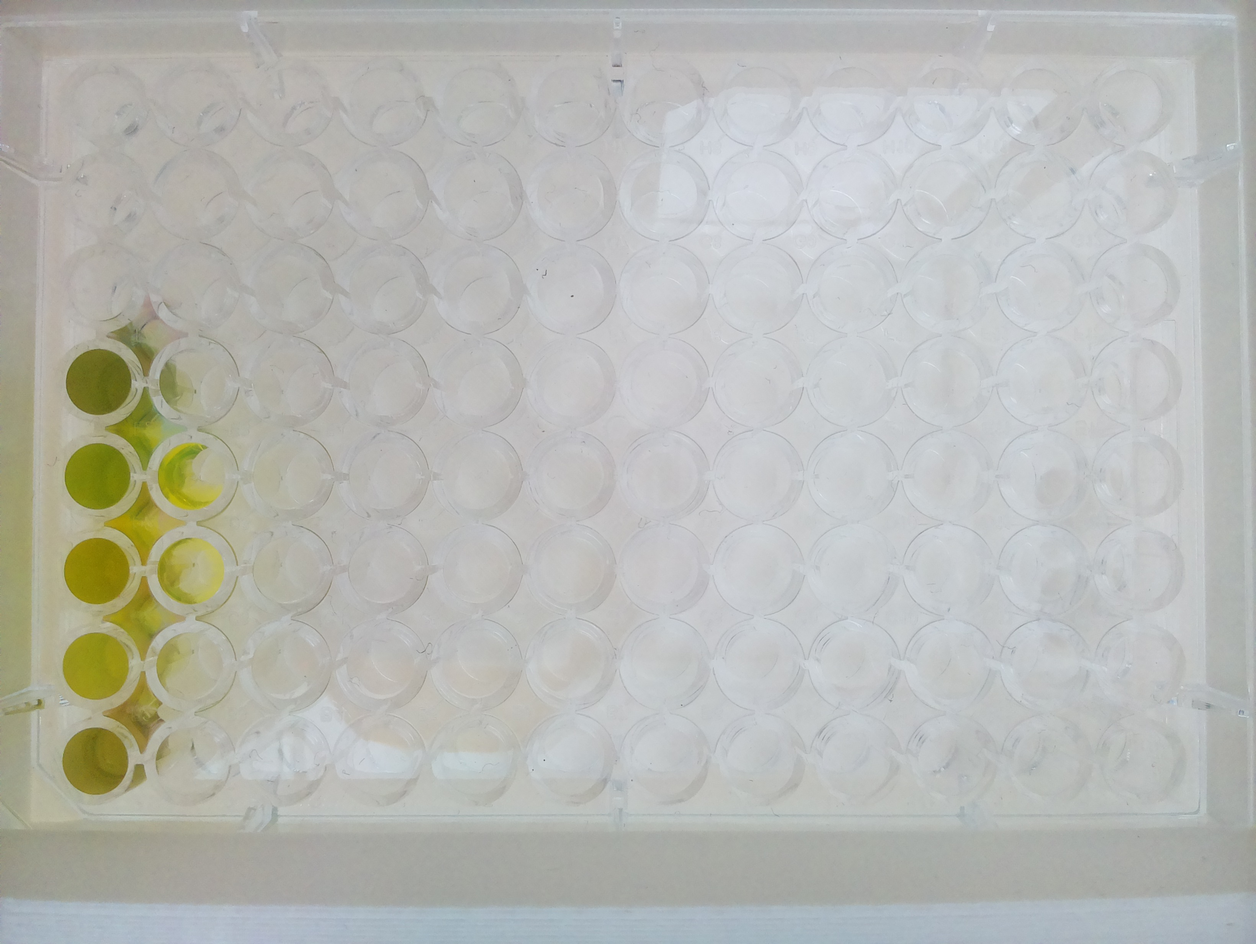
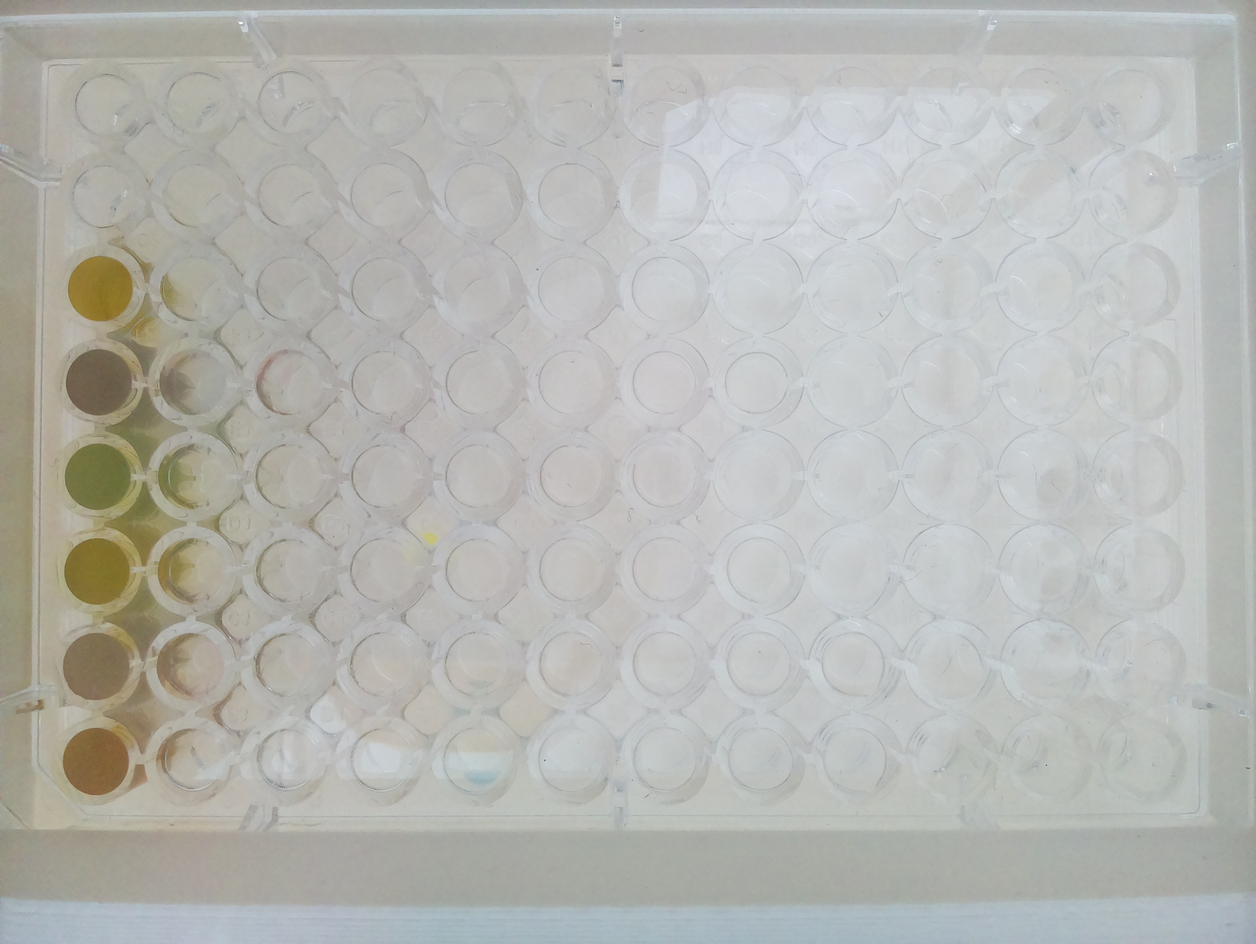
03_07

diff --git a/mara_demo/workflow/demo_main.py b/mara_demo/workflow/demo_main.py
@@ -1,32 +1,36 @@
 '''
-Vattanary Tevy - created 03/02/2025 (Modified for Interactive Workflow)
-Orchestrates workflow with manual intervention points and color-grouped output
-Fixed to correctly interpret LHS samples
+Vattanary Tevy - Modified for Interactive Workflow
+Simplified version without Bayesian Optimization
 '''
-
 from camera import capture_photo
-from image_analysis import analyze_image, plot_grid, draw_contours, compute_rgb_grid
-from lhs import generate_lhs_samples, store_and_print_cmyk
-from bayesian import build_bo_model, suggest_next_sample, RGB_to_CMYK
+from image_analysis import compute_rgb_grid
+from lhs import generate_lhs_samples
 import config
 import asyncio
-import torch
 import numpy as np
-import json
 import time
-
-from botorch.models import SingleTaskGP
-from gpytorch.mlls import ExactMarginalLogLikelihood
-from gpytorch.kernels import ScaleKernel, RBFKernel
-
 # Use target color from config if available, otherwise use this default
 TARGET_RGB = [224, 163, 46]
 MAX_WELL_VOLUME = 270  # Total volume constraint in microliters
-
 def wait_for_user_input(message="Press Enter to continue..."):
     """Pause execution until user presses Enter."""
     input(message)
-
+def RGB_to_CMYK(rgb):
+    """Convert RGB in [0,1] to CMYK in [0,1]"""
+    r, g, b = rgb
+    # Black (K) calculation
+    k = 1 - max(r, g, b)
+    # Handle pure black case
+    if k == 1:
+        return [0, 0, 0, 1]
+    # CMY calculation
+    c = (1 - r - k) / (1 - k)
+    m = (1 - g - k) / (1 - k)
+    y = (1 - b - k) / (1 - k)
+    return [c, m, y, k]
+def calculate_color_distance(color1, color2):
+    """Calculate Euclidean distance between two color arrays."""
+    return np.sqrt(np.sum((np.array(color1) - np.array(color2))**2))
 def print_color_grouped_volumes(cmyk_array):
     """
     Print CMYK volumes grouped by color component.
@@ -35,190 +39,161 @@ def print_color_grouped_volumes(cmyk_array):
     # Convert to numpy array for easier manipulation
     cmyk_array = np.array(cmyk_array)
     n_samples = cmyk_array.shape[0]
-    
     # Extract each color channel and scale to MAX_WELL_VOLUME
     cyan_values = [round(cmyk_array[i, 0] * MAX_WELL_VOLUME, 2) for i in range(n_samples)]
     magenta_values = [round(cmyk_array[i, 1] * MAX_WELL_VOLUME, 2) for i in range(n_samples)]
     yellow_values = [round(cmyk_array[i, 2] * MAX_WELL_VOLUME, 2) for i in range(n_samples)]
     black_values = [round(cmyk_array[i, 3] * MAX_WELL_VOLUME, 2) for i in range(n_samples)]
-    
     print("Cyan:")
     print(", ".join([f"{val}" for val in cyan_values]))
-    
     print("Magenta:")
     print(", ".join([f"{val}" for val in magenta_values]))
-    
     print("Yellow:")
     print(", ".join([f"{val}" for val in yellow_values]))
-    
     print("Black:")
     print(", ".join([f"{val}" for val in black_values]))
-    
     # Print total volumes for verification
     for i in range(n_samples):
         total = sum([round(cmyk_array[i, j] * MAX_WELL_VOLUME, 2) for j in range(4)])
         print(f"Well {i} total: {total:.2f}µL")
-
-def main_workflow_interactive():
+def suggest_next_sample_simple(cmyk_samples, distances, target_cmyk):
+    """
+    Simple alternative to Bayesian Optimization - uses a heuristic approach.
+    Returns a new CMYK sample that's likely to be closer to the target.
+    """
+    # Convert to numpy arrays
+    cmyk_samples = np.array(cmyk_samples)
+    distances = np.array(distances)
+    target_cmyk = np.array(target_cmyk)
+    # Find the best sample so far
+    best_idx = np.argmin(distances)
+    best_sample = cmyk_samples[best_idx]
+    # Strategy 1: Move 30% of the way from best sample toward target
+    weight = 0.3
+    new_sample = (1 - weight) * best_sample + weight * target_cmyk
+    # Ensure the sum is 1.0 (for proper scaling)
+    new_sample = new_sample / np.sum(new_sample)
+    return new_sample
+def main_workflow_simplified():
     # 1) Set target color in RGB
     target_rgb_255 = TARGET_RGB          # e.g. [224, 163, 46]
     target_rgb = np.array(target_rgb_255) / 255 # convert to [0..1]
     target_cmyk = RGB_to_CMYK(target_rgb)       # in [0..1]
     print(f"Target RGB: {target_rgb_255} → CMYK: {[round(v, 3) for v in target_cmyk]}")
-
     # 2) Generate 5 initial LHS samples (CMYK in [0,1])
     n_init = 5
     # Set sum_constraint=1.0 since we'll scale to MAX_WELL_VOLUME later
     lhs_samples = generate_lhs_samples(n_samples=n_init, n_vars=4, sum_constraint=1.0, seed=1)
-    
-    # LHS returns shape (n_samples, n_vars) - each row is a well, columns are C,M,Y,K
-    # Keep this format for processing
-
     # 3) PAUSE: Display CMYK volumes for manual dispensing
     print("\n==== Initial 5 CMYK Samples to Dispense Manually ====")
     print_color_grouped_volumes(lhs_samples)
-    
     # Wait for user to manually dispense and signal completion
     wait_for_user_input("\nPlease manually dispense these samples, then press Enter to capture image...")
-
     # 4) Take picture
     print("Capturing image for the 5 initial samples...")
     asyncio.run(capture_photo())
     print("Image captured successfully!")
-
     # 5) Analyze image: extract the 1st 5 wells
     print("Analyzing image...")
     _, rgb_values = compute_rgb_grid(config.CAPTURE_IMAGE_PATH, config.ROWS, config.COLS,
                                     config.TOP_LEFT, config.BOTTOM_RIGHT)
-    
     # We'll slice out just the first 5 wells (0..4)
     initial_rgb = rgb_values[:5]
     print("Initial 5 RGB values extracted:")
     for i, rgb in enumerate(initial_rgb):
         print(f"Well {i}: RGB = {rgb}")
-
     # 6) Convert these 5 samples of RGB to CMYK
     initial_cmyk_list = []
     for row in initial_rgb:
         row_rgb01 = np.array(row) / 255.0
         row_cmyk = RGB_to_CMYK(row_rgb01)
         initial_cmyk_list.append(row_cmyk)
-
-    # Convert to a PyTorch tensor
-    train_x = torch.tensor(initial_cmyk_list, dtype=torch.double)  # shape (5,4)
-
-    # The objective is negative distance to target_cmyk
-    t_cmyk = torch.tensor(target_cmyk, dtype=torch.double)
-    distances_init = torch.norm(train_x - t_cmyk, dim=1)          # shape (5,)
-    train_y = -distances_init.unsqueeze(-1)                       # shape (5,1)
-
+    # Calculate distances to target
+    distances = []
+    for cmyk in initial_cmyk_list:
+        dist = calculate_color_distance(cmyk, target_cmyk)
+        distances.append(dist)
     # Print initial distances
     print("\n==== Initial Distances to Target ====")
-    for i, dist in enumerate(distances_init):
-        print(f"Well {i} distance: {dist.item():.4f}")
-
-    # Iterative BO, dispensing 1 sample at a time
-    bounds = torch.stack([
-        torch.zeros(4, dtype=torch.double),
-        torch.ones(4, dtype=torch.double)
-    ])
-
+    for i, dist in enumerate(distances):
+        print(f"Well {i} distance: {dist:.4f}")
+    # Keep track of all samples and their distances
+    all_cmyk_samples = initial_cmyk_list.copy()
+    all_distances = distances.copy()
     # Keep track of how many total samples dispensed
     total_samples = n_init
     max_samples = 15      # end condition
     threshold = 0.05      # distance threshold
-
+    # Find current best sample
+    best_idx = np.argmin(all_distances)
+    best_dist = all_distances[best_idx]
+    print(f"Current best distance = {best_dist:.4f}, in well {best_idx}")
     while total_samples < max_samples:
-        # 7) Fit a GP model on the current train_x, train_y
-        print("\nFitting Bayesian Optimization model...")
-        gp = build_bo_model(train_x, train_y)
-
-        # Check if we already have a "best distance" that meets threshold
-        best_idx = torch.argmax(train_y)
-        best_dist = -train_y[best_idx].item()
-        print(f"Current best distance = {best_dist:.4f}, iteration = {total_samples}")
-
+        # Check if we already have a good enough sample
         if best_dist < threshold:
             print(f"Stopping early because best distance {best_dist:.4f} < {threshold}")
             break
-
-        # 8) Suggest the next sample (only one at a time)
-        new_x = suggest_next_sample(gp, train_x, bounds, beta=0.1)  # shape (1,4)
-        cmyk_array = new_x.squeeze(0).numpy().tolist()  # shape (4,) -> list
-        
-        # 9) PAUSE: Display the next CMYK to manually dispense
+        # 7) Suggest the next sample using simple heuristic
+        print("\nGenerating next sample recommendation...")
+        new_cmyk = suggest_next_sample_simple(all_cmyk_samples, all_distances, target_cmyk)
+        # 8) PAUSE: Display the next CMYK to manually dispense
         new_sample_well = total_samples
         print(f"\n==== Next CMYK Sample (Well {new_sample_well}) ====")
-        
         # Format as color-grouped output even though it's just one sample
         print("Cyan:")
-        print(f"{round(cmyk_array[0] * MAX_WELL_VOLUME, 2)}")
-        
+        print(f"{round(new_cmyk[0] * MAX_WELL_VOLUME, 2)}")
         print("Magenta:")
-        print(f"{round(cmyk_array[1] * MAX_WELL_VOLUME, 2)}")
-        
+        print(f"{round(new_cmyk[1] * MAX_WELL_VOLUME, 2)}")
         print("Yellow:")
-        print(f"{round(cmyk_array[2] * MAX_WELL_VOLUME, 2)}")
-        
+        print(f"{round(new_cmyk[2] * MAX_WELL_VOLUME, 2)}")
         print("Black:")
-        print(f"{round(cmyk_array[3] * MAX_WELL_VOLUME, 2)}")
-        
-        total = sum([round(val * MAX_WELL_VOLUME, 2) for val in cmyk_array])
+        print(f"{round(new_cmyk[3] * MAX_WELL_VOLUME, 2)}")
+        total = sum([round(val * MAX_WELL_VOLUME, 2) for val in new_cmyk])
         print(f"Total volume: {total:.2f}µL")
-        
         # Wait for user to manually dispense and signal completion
         wait_for_user_input("\nPlease manually dispense this sample, then press Enter to capture image...")
-
-        # 10) Take a picture again
+        # 9) Take a picture again
         print("Capturing new image...")
         asyncio.run(capture_photo())
         print("Image captured successfully!")
-
-        # 11) Analyze image: we only need the new well
+        # 10) Analyze image: we only need the new well
         print("Analyzing updated image...")
         _, new_rgb_values = compute_rgb_grid(config.CAPTURE_IMAGE_PATH, config.ROWS, config.COLS,
                                             config.TOP_LEFT, config.BOTTOM_RIGHT)
         # Extract the single well
         new_rgb = new_rgb_values[new_sample_well]
         print(f"Well {new_sample_well} RGB = {new_rgb}")
-        
-        # 12) Convert this new RGB -> CMYK
+        # 11) Convert this new RGB -> CMYK
         row_rgb01 = np.array(new_rgb) / 255.0
-        new_cmyk = RGB_to_CMYK(row_rgb01)
-        print(f"Measured CMYK = {[round(v, 3) for v in new_cmyk]}")
-
-        # 13) Compute objective, append to train_x, train_y
-        new_cmyk_torch = torch.tensor(new_cmyk, dtype=torch.double).unsqueeze(0)  # shape [1,4]
-        train_x = torch.cat([train_x, new_cmyk_torch], dim=0)
-
-        new_dist = torch.norm(new_cmyk_torch - t_cmyk, dim=1)   # shape [1,]
-        new_y = -(new_dist.unsqueeze(-1))                      # shape [1,1]
-        train_y = torch.cat([train_y, new_y], dim=0)
-        
-        print(f"New distance to target: {new_dist.item():.4f}")
-
+        measured_cmyk = RGB_to_CMYK(row_rgb01)
+        print(f"Measured CMYK = {[round(v, 3) for v in measured_cmyk]}")
+        # 12) Calculate distance and update tracking
+        new_dist = calculate_color_distance(measured_cmyk, target_cmyk)
+        print(f"New distance to target: {new_dist:.4f}")
+        # Add to our collections
+        all_cmyk_samples.append(measured_cmyk)
+        all_distances.append(new_dist)
+        # Update best if this is better
+        if new_dist < best_dist:
+            best_dist = new_dist
+            best_idx = len(all_distances) - 1
+            print(f"New best match found in Well {best_idx}!")
         total_samples += 1
-
-        # 14) Check if new distance meets threshold
-        if new_dist.item() < threshold:
-            print(f"Distance {new_dist.item():.4f} < {threshold}, stopping.")
+        # 13) Check if new distance meets threshold
+        if new_dist < threshold:
+            print(f"Distance {new_dist:.4f} < {threshold}, stopping.")
             break
-
     print("\n==== Final Results ====")
-    best_idx = torch.argmax(train_y)
-    best_dist = -train_y[best_idx].item()
-    best_cmyk = train_x[best_idx].numpy()
+    best_idx = np.argmin(all_distances)
+    best_dist = all_distances[best_idx]
+    best_cmyk = all_cmyk_samples[best_idx]
     print(f"Total samples used: {total_samples}")
     print(f"Best distance: {best_dist:.4f}")
     print(f"Best CMYK: {[round(v, 3) for v in best_cmyk]}")
-    best_well = best_idx.item()
-    print(f"Best match is in Well {best_well}")
-    
+    print(f"Best match is in Well {best_idx}")
     # Show best values in practical volumes
     best_volumes = [round(val * MAX_WELL_VOLUME, 2) for val in best_cmyk]
     print(f"Best CMYK volumes: C={best_volumes[0]}µL, M={best_volumes[1]}µL, Y={best_volumes[2]}µL, K={best_volumes[3]}µL")
     print(f"Total volume: {sum(best_volumes):.2f}µL")
-
-
 if __name__ == "__main__":
-    main_workflow_interactive()
+    main_workflow_simplified()
